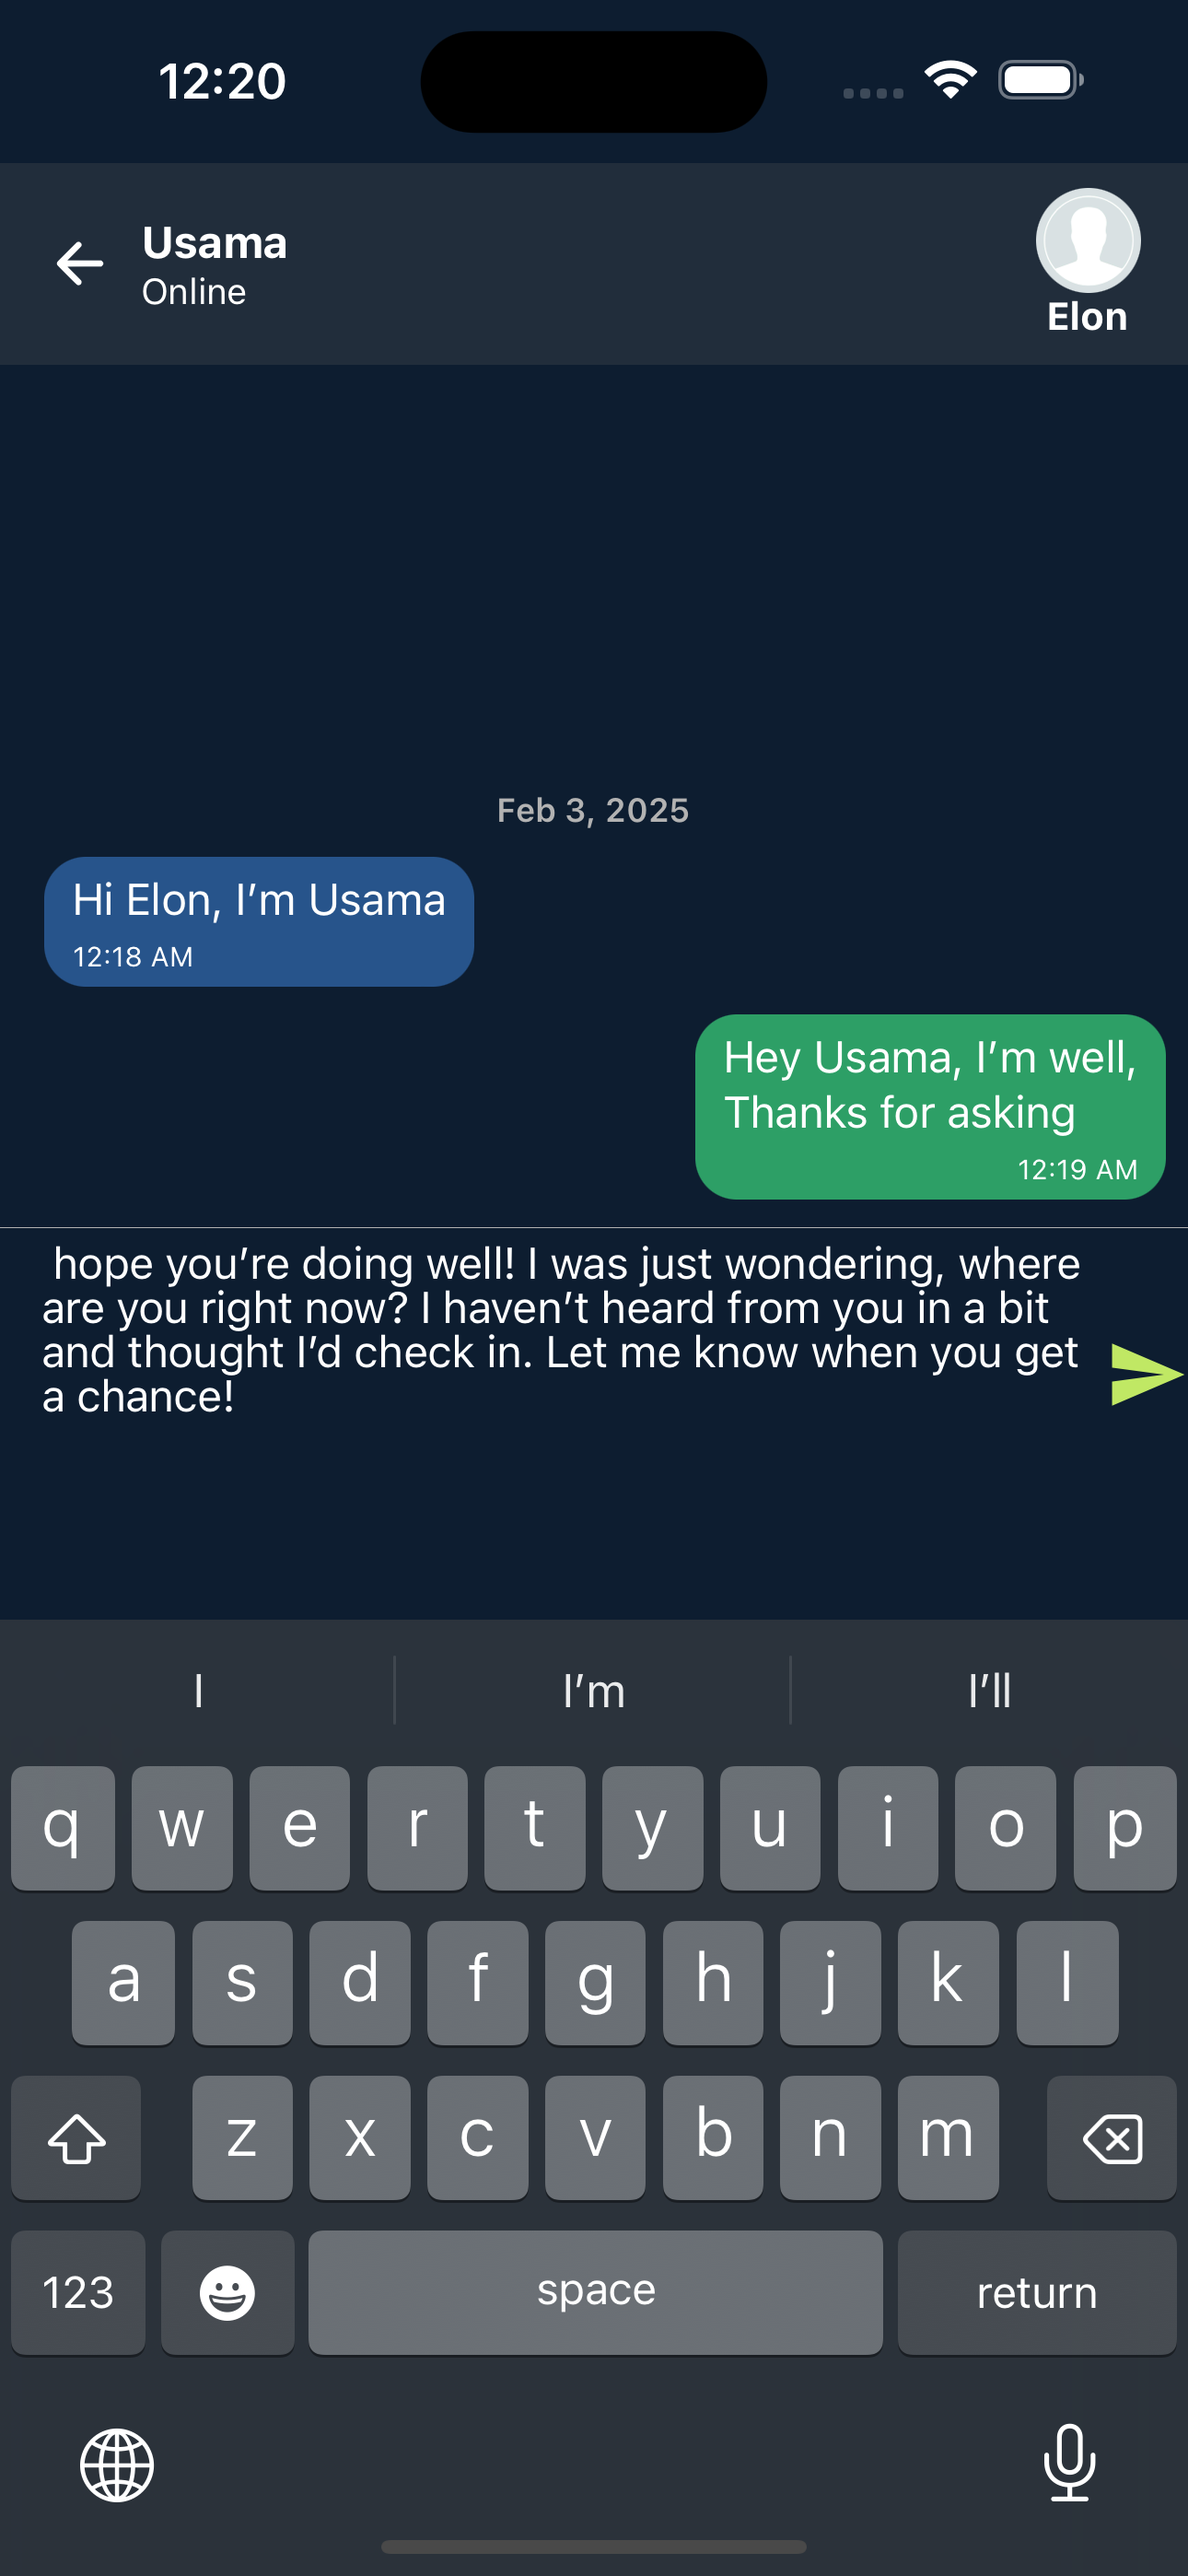
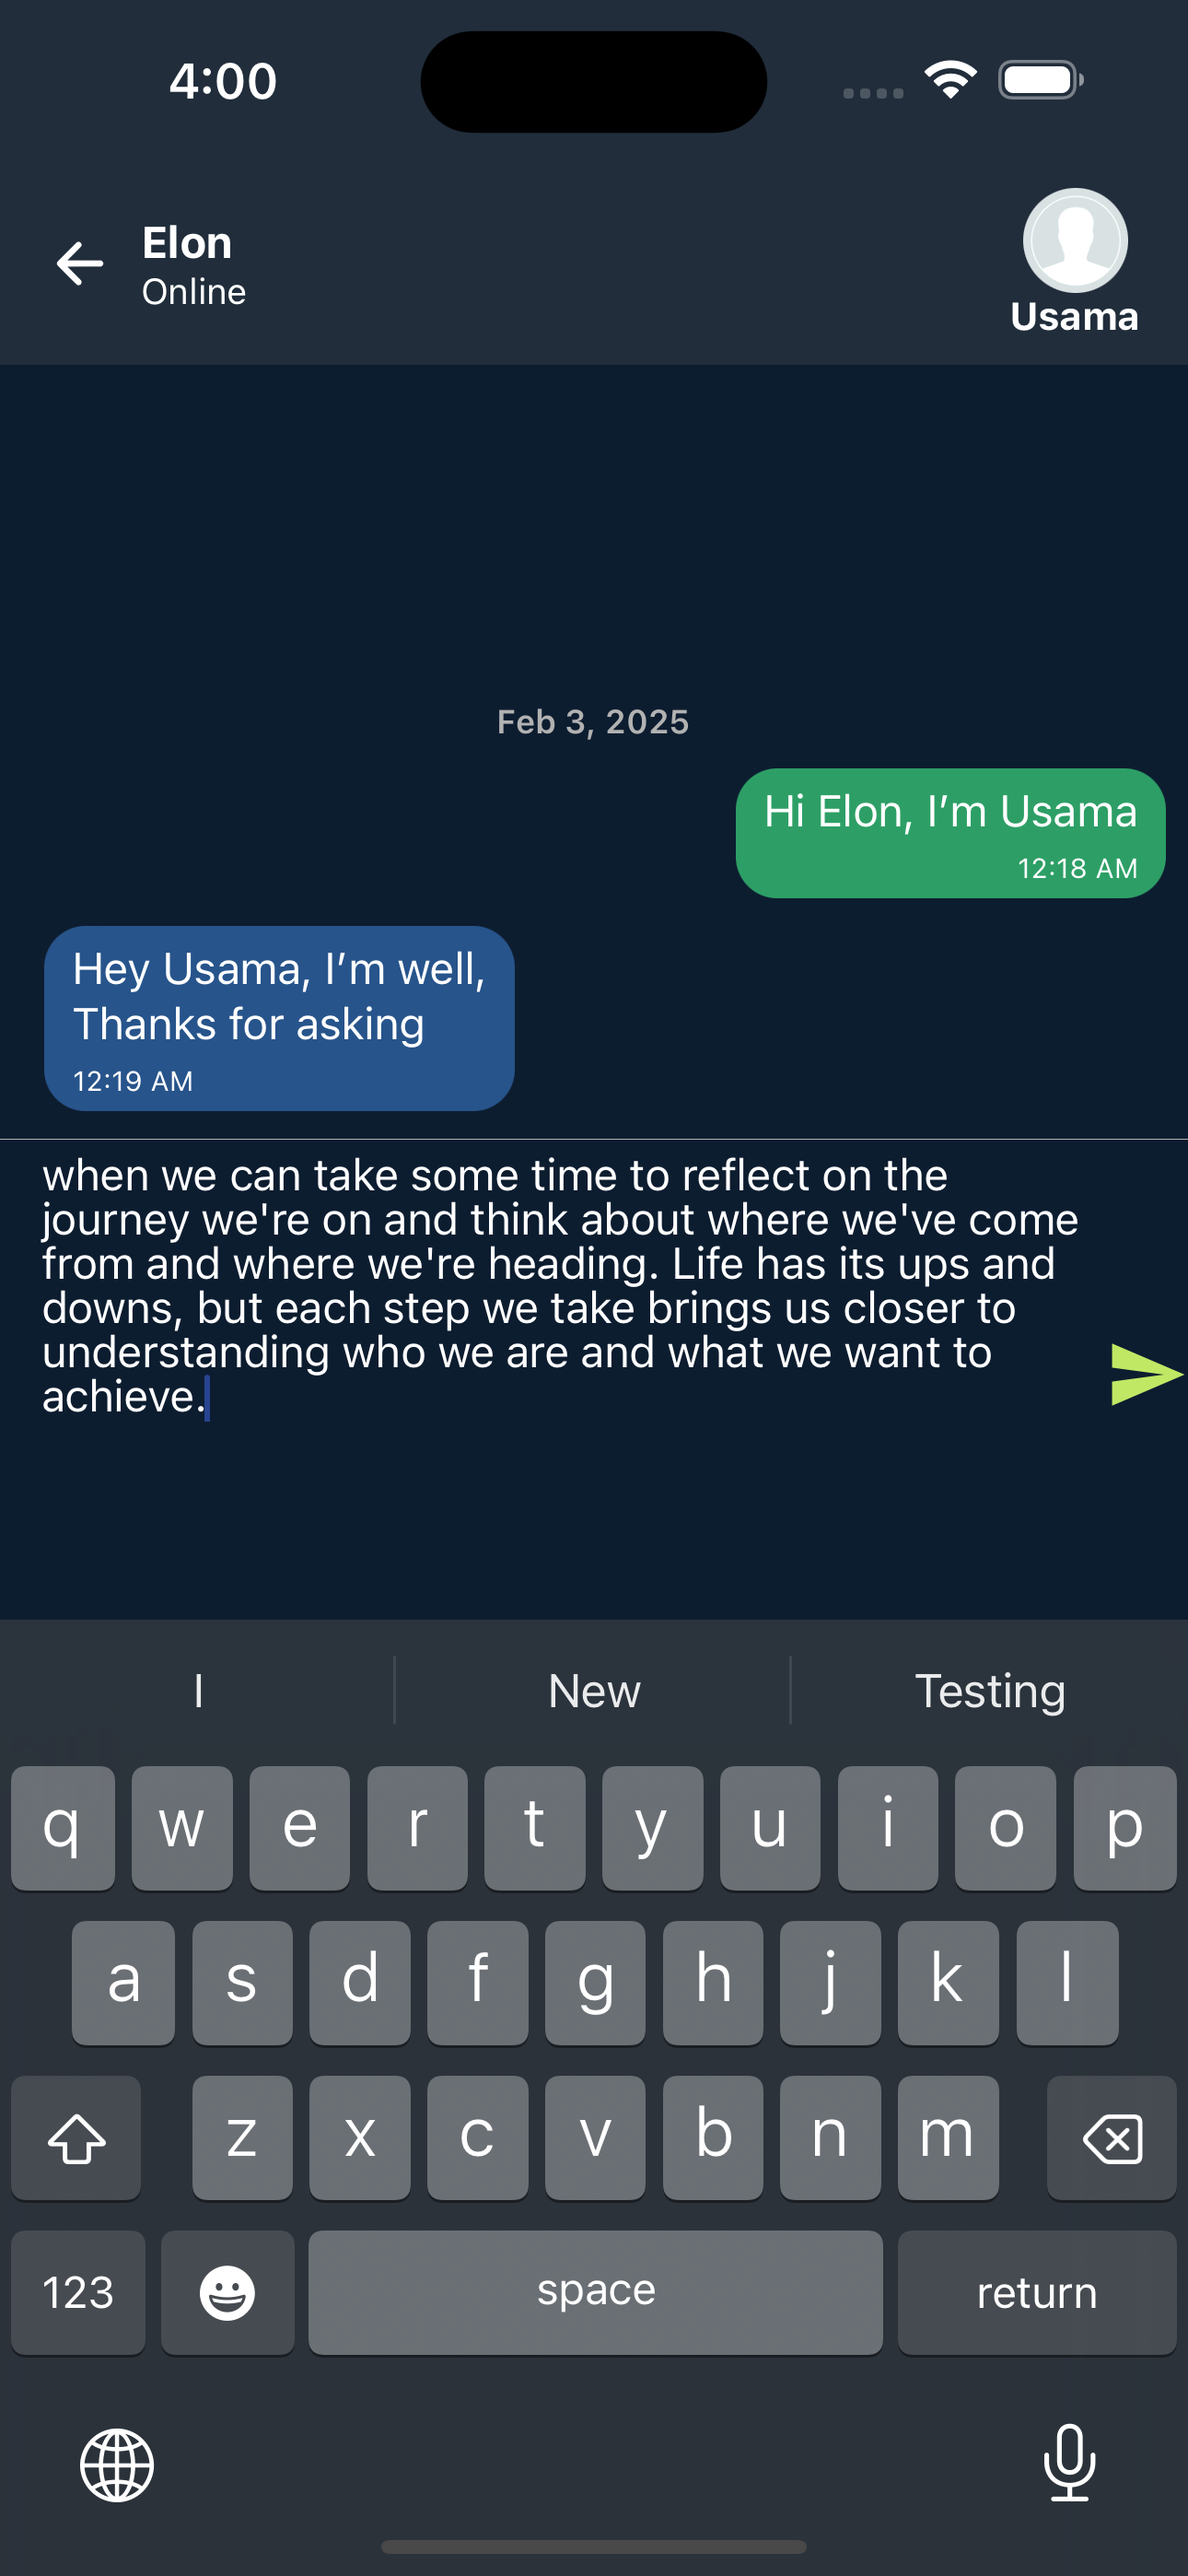
feat: statusbar

diff --git a/src/MainStack/index.tsx b/src/MainStack/index.tsx
@@ -1,18 +1,20 @@
-import {useState, useEffect} from 'react';
-import {NavigationContainer} from '@react-navigation/native';
-import {createNativeStackNavigator} from '@react-navigation/native-stack';
+import { useState, useEffect } from "react";
+import { NavigationContainer } from "@react-navigation/native";
+import { createNativeStackNavigator } from "@react-navigation/native-stack";
 
-import {theme} from '../theme';
-import {useColorScheme} from 'react-native';
+import { theme } from "../theme";
+import { useColorScheme } from "react-native";
 
-import {Chat, Login, Users} from '../screens';
-import auth, {FirebaseAuthTypes} from '@react-native-firebase/auth';
-import {NAVIGATION} from '../constant/navigation';
+import { Chat, Login, Users } from "../screens";
+import auth, { FirebaseAuthTypes } from "@react-native-firebase/auth";
+import { NAVIGATION } from "../constant/navigation";
+import { MyStatusBar } from "../components";
+import { ColorPane } from "../theme/colorScheme";
 
 const Stack = createNativeStackNavigator();
 
 const MainStack = () => {
-  const scheme = useColorScheme() as 'light' | 'dark';
+  const scheme = useColorScheme() as "light" | "dark";
 
   const [user, setUser] = useState<FirebaseAuthTypes.User | null>(null);
 
@@ -21,7 +23,7 @@ const MainStack = () => {
     const unsubscribe = auth().onAuthStateChanged(
       (authUser: FirebaseAuthTypes.User | null) => {
         setUser(authUser);
-      },
+      }
     );
 
     // Cleanup function
@@ -30,10 +32,17 @@ const MainStack = () => {
 
   return (
     <NavigationContainer theme={theme[scheme]}>
+      {user && (
+        <MyStatusBar
+          backgroundColor={ColorPane.midnight}
+          barStyle="light-content"
+        />
+      )}
       <Stack.Navigator
         screenOptions={{
           headerShown: false,
-        }}>
+        }}
+      >
         {user ? (
           <>
             <Stack.Screen name={NAVIGATION.USERS} component={Users} />

diff --git a/src/components/MyStatusNar/index.tsx b/src/components/MyStatusNar/index.tsx
@@ -1,0 +1,35 @@
+import {
+  StyleSheet,
+  StatusBar,
+  View,
+  SafeAreaView,
+  StatusBarProps,
+} from "react-native";
+import React from "react";
+import { ColorPane } from "../../theme/colorScheme";
+import { APPBAR_HEIGHT, STATUSBAR_HEIGHT } from "../../constant/dimensions";
+
+interface MyStatusBarProps extends StatusBarProps {
+  backgroundColor?: string;
+}
+
+export const MyStatusBar: React.FC<MyStatusBarProps> = ({
+  backgroundColor,
+  ...props
+}) => (
+  <View style={[styles.statusBar, { backgroundColor }]}>
+    <SafeAreaView>
+      <StatusBar translucent backgroundColor={backgroundColor} {...props} />
+    </SafeAreaView>
+  </View>
+);
+
+const styles = StyleSheet.create({
+  statusBar: {
+    height: STATUSBAR_HEIGHT
+  },
+  appBar: {
+    backgroundColor: ColorPane.midnight,
+    height: APPBAR_HEIGHT,
+  },
+});

diff --git a/src/constant/dimensions.js b/src/constant/dimensions.js
@@ -1,4 +1,9 @@
-import {Dimensions} from 'react-native';
+import { Platform } from "react-native";
+import { StatusBar } from "react-native";
+import { Dimensions } from "react-native";
+import { HPX } from "../utils/responsiveness";
 
-export const screenHeight = Dimensions.get('window').height;
-export const screenWidth = Dimensions.get('window').width;
+export const screenHeight = Dimensions.get("window").height;
+export const screenWidth = Dimensions.get("window").width;
+export const STATUSBAR_HEIGHT = StatusBar.currentHeight;
+export const APPBAR_HEIGHT = Platform.OS === "ios" ? HPX(44) : HPX(56);

diff --git a/src/components/index.ts b/src/components/index.ts
@@ -6,3 +6,4 @@ export * from './AnimatedBtn/AnimatedBtn';
 export * from './FadeText/FadeText';
 export * from './Divider/OrDivider';
 export * from './Microsoft/MicrosoftSignInButton';
+export * from './MyStatusNar';
